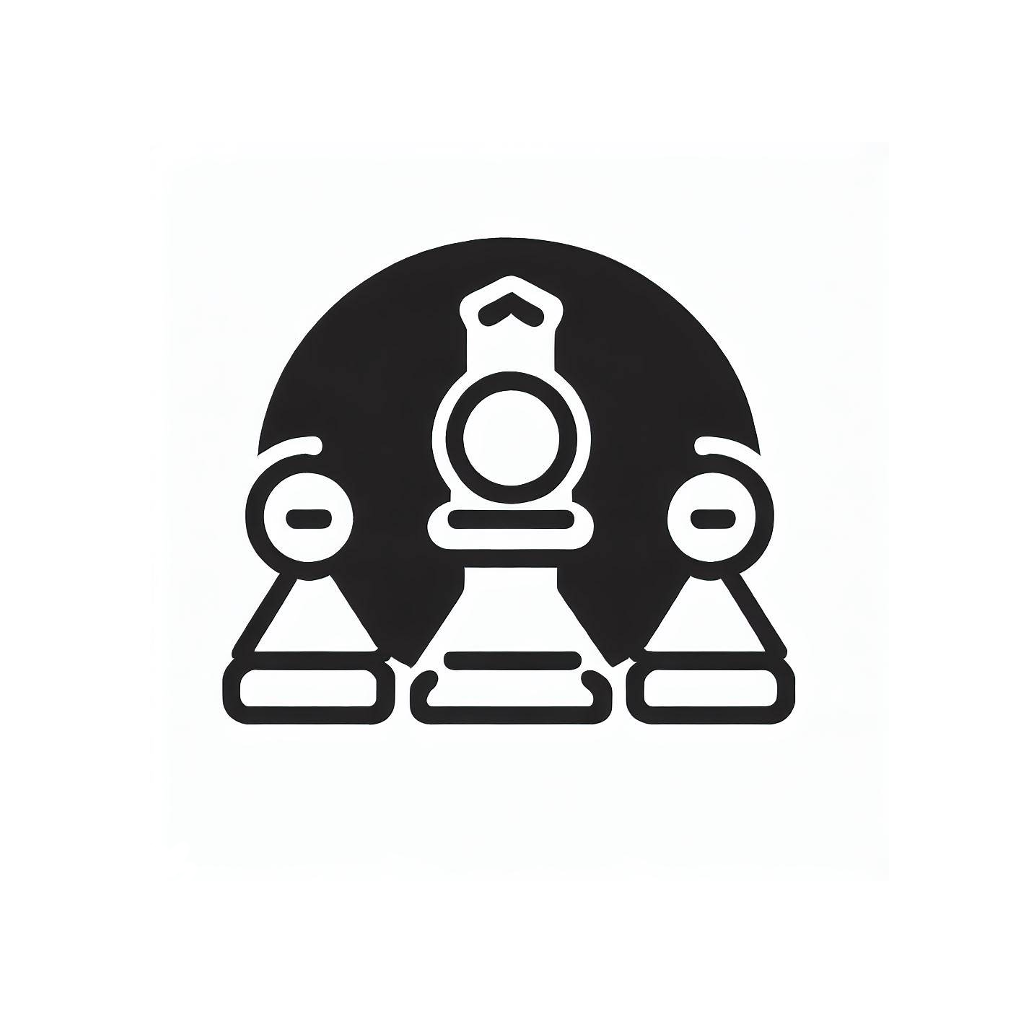
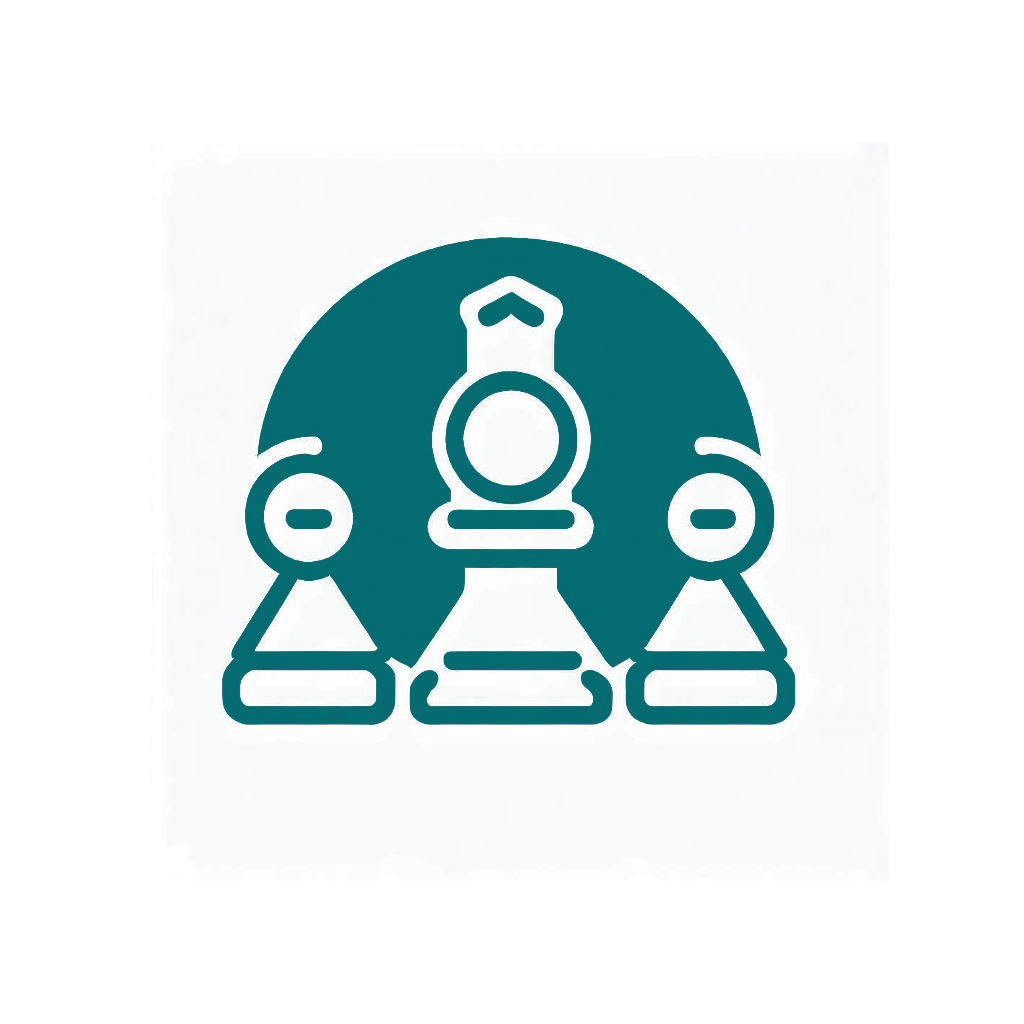
Expansion added + fixed UseEffect + blue img

Changed region(s): [[0.2188, 0.2188, 0.7812, 0.7188]]

diff --git a/app/components/EditBoardGame.js b/app/components/EditBoardGame.js
@@ -23,6 +23,7 @@ const EditBoardGame = (props) => {
   const [name, setName] = useState(gameParams.name);
   const [yearpublished, setYearpublished] = useState(gameParams.yearpublished);
   const [owner, setOwner] = useState(gameParams.owner);
+  const [expansion, setExpansion] = useState(gameParams.expansion);
   const [rating, setRating] = useState(gameParams.rating);
   const [minPlayers, setMinPlayers] = useState(gameParams.minPlayers);
   const [maxPlayers, setMaxPlayers] = useState(gameParams.maxPlayers);
@@ -42,6 +43,13 @@ const EditBoardGame = (props) => {
     owner === "You" ? setOwner("Friend") : setOwner("You");
   };
 
+  const changeExpansion = () => {
+    if (expansion === null) {
+      setExpansion(false);
+    }
+    expansion === false ? setExpansion(true) : setExpansion(false);
+  };
+
   const saveChanges = async () => {
     const updatedCollection = collection.map((item) => {
       if (item.name === gameParams.name) {
@@ -55,6 +63,7 @@ const EditBoardGame = (props) => {
           maxPlaytime: maxPlaytime,
           bggImage: bggImage,
           owner: owner,
+          expansion: expansion,
           rating: rating,
         };
       } else {
@@ -64,7 +73,7 @@ const EditBoardGame = (props) => {
 
     setCollection(updatedCollection);
     await AsyncStorage.setItem("collection", JSON.stringify(updatedCollection));
-    fetchCollection();
+    // fetchCollection();
     props.navigation.goBack();
   };
 
@@ -99,6 +108,17 @@ const EditBoardGame = (props) => {
             onPress={() => changeOwner()}
           >
             <Text style={[{ color: colors.LIGHT }]}>{owner}</Text>
+          </TouchableOpacity>
+        </View>
+        <View style={[styles.flexRow]}>
+          <Text style={[styles.nameOfInputStyle]}>Expansion:</Text>
+          <TouchableOpacity
+            style={[styles.inputTextStyle]}
+            onPress={() => changeExpansion()}
+          >
+            <Text style={[{ color: colors.LIGHT }]}>
+              {expansion ? "Yes" : "No"}
+            </Text>
           </TouchableOpacity>
         </View>
         <View style={[styles.flexRow]}>

diff --git a/app/components/NewGameModal.js b/app/components/NewGameModal.js
@@ -33,6 +33,8 @@ const NewGameModal = ({ visible, onClose, onSubmit }) => {
     maxPlaytime: "",
     bggImage: null,
     id: Date.now(),
+    isChecked: false,
+    expansion: false,
     stats: [],
   });
 
@@ -56,6 +58,8 @@ const NewGameModal = ({ visible, onClose, onSubmit }) => {
         maxPlaytime: "",
         bggImage: null,
         id: Date.now(),
+        isChecked: false,
+        expansion: false,
         stats: [],
       });
       onClose();
@@ -83,6 +87,8 @@ const NewGameModal = ({ visible, onClose, onSubmit }) => {
       maxPlaytime: "",
       bggImage: null,
       id: Date.now(),
+      isChecked: false,
+      expansion: false,
       stats: [],
     });
     onClose();
@@ -100,6 +106,12 @@ const NewGameModal = ({ visible, onClose, onSubmit }) => {
     addGame.owner === "You"
       ? setAddGame({ ...addGame, owner: "Friend" })
       : setAddGame({ ...addGame, owner: "You" });
+  };
+
+  const changeExpansion = () => {
+    addGame.expansion === false
+      ? setAddGame({ ...addGame, expansion: true })
+      : setAddGame({ ...addGame, expansion: false });
   };
 
   return (
@@ -136,6 +148,17 @@ const NewGameModal = ({ visible, onClose, onSubmit }) => {
               onPress={() => changeOwner()}
             >
               <Text style={[{ color: colors.LIGHT }]}>{addGame.owner}</Text>
+            </TouchableOpacity>
+          </View>
+          <View style={[styles.flexRow]}>
+            <Text style={[styles.nameOfInputStyle]}>Expansion:</Text>
+            <TouchableOpacity
+              style={[styles.inputTextStyle]}
+              onPress={() => changeExpansion()}
+            >
+              <Text style={[{ color: colors.LIGHT }]}>
+                {addGame?.expansion ? "Yes" : "No"}
+              </Text>
             </TouchableOpacity>
           </View>
           <View style={[styles.flexRow]}>

diff --git a/app/components/GamesPlayed.js b/app/components/GamesPlayed.js
@@ -299,30 +299,44 @@ const GamesPlayed = (props) => {
     setGameParams({ ...gameParams, stats: newGameplay });
   };
 
-  useEffect(() => {
-    setCollection((prevCollection) =>
-      prevCollection.map((obj) =>
-        obj.id === gameParams.id ? { ...obj, stats: gameParams.stats } : obj
-      )
-    );
-  }, [gameParams]);
+  // useEffect(() => {
+  //   setCollection((prevCollection) =>
+  //     prevCollection.map((obj) =>
+  //       obj.id === gameParams.id ? { ...obj, stats: gameParams.stats } : obj
+  //     )
+  //   );
+  // }, [gameParams]);
 
-  useEffect(() => {
-    asyncSetCollection();
-  }, [collection]);
+  // useEffect(() => {
+  //   asyncSetCollection();
+  // }, [collection]);
 
-  const asyncSetCollection = async () => {
-    await AsyncStorage.setItem("collection", JSON.stringify(collection));
-  };
+  // const asyncSetCollection = async () => {
+  //   await AsyncStorage.setItem("collection", JSON.stringify(collection));
+  // };
 
   const addNewGameplay = async (newGameplay) => {
     if (!gameParams.stats) {
       gameParams.stats = [];
     }
-    setGameParams((prevState) => ({
-      ...prevState,
-      stats: [...prevState.stats, newGameplay],
-    }));
+
+    const newGameParams = {
+      ...gameParams,
+      stats: [...gameParams.stats, newGameplay],
+    };
+    const updatedCollection = collection.map((item) => {
+      if (item.id === newGameParams.id) {
+        return {
+          ...item,
+          stats: newGameParams.stats,
+        };
+      } else {
+        return item;
+      }
+    });
+    setGameParams(newGameParams);
+    setCollection(updatedCollection);
+    await AsyncStorage.setItem("collection", JSON.stringify(updatedCollection));
   };
 
   // Sort the gameParams.stats array by date

diff --git a/app/components/CollectionBoardgameDetail.js b/app/components/CollectionBoardgameDetail.js
@@ -54,10 +54,22 @@ const CollectionBoardgameDetail = (props) => {
     if (!gameParams.stats) {
       gameParams.stats = [];
     }
-    setGameParams((prevState) => ({
-      ...prevState,
-      stats: [...prevState.stats, newGameplay],
-    }));
+
+    const newGameParams = {
+      ...gameParams,
+      stats: [...gameParams.stats, newGameplay],
+    };
+    const updatedCollection = collection.map((item) => {
+      if (item.id === newGameParams.id) {
+        return {
+          ...item,
+          stats: newGameParams.stats,
+        };
+      } else {
+        return item;
+      }
+    });
+    await AsyncStorage.setItem("collection", JSON.stringify(updatedCollection));
   };
 
   useEffect(() => {
@@ -69,22 +81,6 @@ const CollectionBoardgameDetail = (props) => {
     );
     return () => backHandler.remove();
   }, [props.navigation]);
-
-  useEffect(() => {
-    setCollection((prevCollection) =>
-      prevCollection.map((obj) =>
-        obj.id === gameParams.id ? { ...obj, stats: gameParams.stats } : obj
-      )
-    );
-  }, [gameParams]);
-
-  useEffect(() => {
-    asyncSetCollection();
-  }, [collection]);
-
-  const asyncSetCollection = async () => {
-    await AsyncStorage.setItem("collection", JSON.stringify(collection));
-  };
 
   useFocusEffect(
     React.useCallback(() => {

diff --git a/app/screens/SearchBgg.js b/app/screens/SearchBgg.js
@@ -116,6 +116,7 @@ const SearchBgg = ({ navigation, renderedCollection, renderedPlayers }) => {
         owner: "You",
         rating: item.stats[0].rating[0].average[0].$.value,
         isChecked: false,
+        expansion: false,
         stats: [],
       };
 
